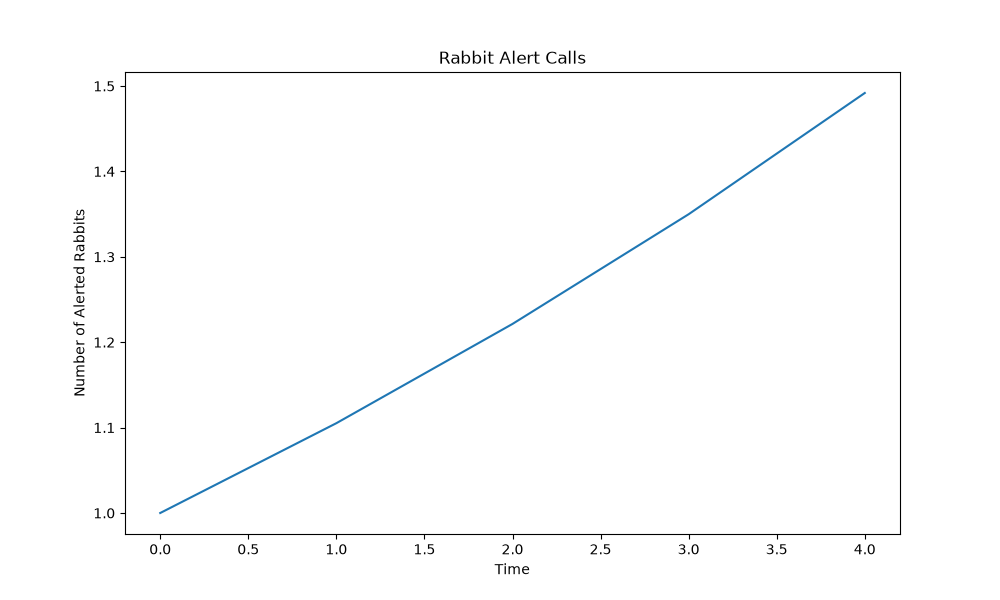
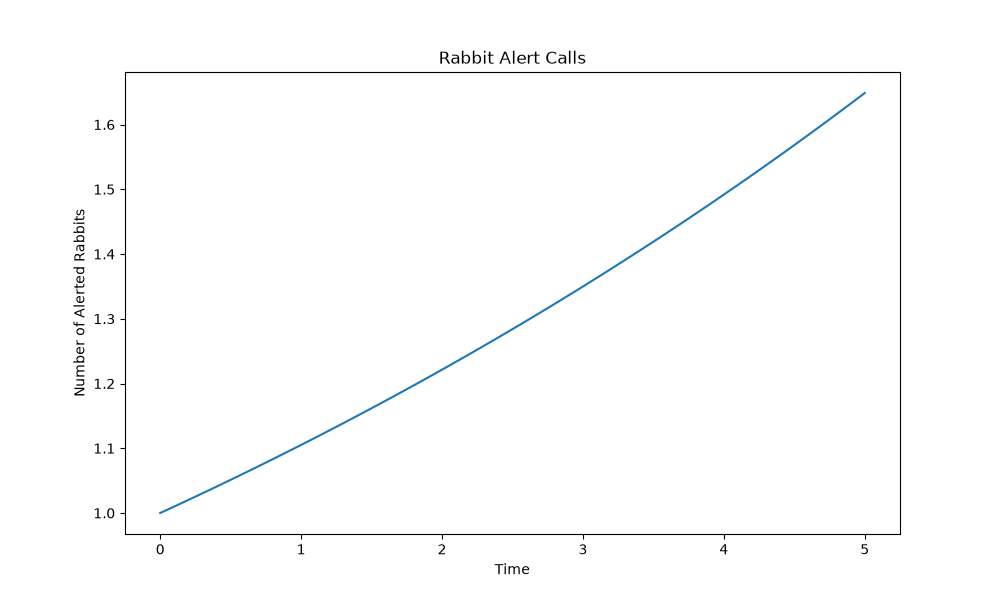
POI established

diff --git a/capped_exponential_model.py b/capped_exponential_model.py
@@ -1,4 +1,5 @@
-from sympy import Eq, Equality, diff, Function, Symbol
+import numpy as np
+from sympy import Eq, Equality, diff, Function, Symbol, lambdify, Piecewise
 from sympy.solvers import dsolve, solve
 from sympy.abc import t
 import matplotlib.pyplot as plt
@@ -66,32 +67,45 @@ def find_point_of_intersection(solution: Equality, carrying_capacity: int):
     equation = Eq(carrying_capacity, solution.rhs)
     point = solve(equation, t)
     return point[0]
-    
+
+def form_piecewise_solution(solution: Equality, carrying_capacity: int, poi: float):
+    piecewise_func = Piecewise(
+        (solution.rhs, t < poi),
+        (carrying_capacity, t >= poi)
+    )
+    return piecewise_func
+
 if __name__=="__main__":
     parser = argparse.ArgumentParser(description="Insert parameters for modeling rabbit alert calls.")
     parser.add_argument("--initial_alerted", type=int, default=1, help="Number of rabbits that detect the predator immediately")
     parser.add_argument("--spread_rate", type=float, default = 0.1, help="Fastness of how rabbits alert each other")
     parser.add_argument("--capacity", type=int, default = 15, help="Number of rabbits as part of the habitat")
+
     args = parser.parse_args()
     
     equation = form_differential_equation(args.spread_rate)
     solution = solve_equation(equation, args.initial_alerted)
-    poi = find_point_of_intersection(solution, args.capacity)
-    x, y = gather_data(solution, args.capacity)
+    
+    find_cap_point = find_point_of_intersection(solution, args.capacity)
+    piecewise_solution = form_piecewise_solution(solution, args.capacity, find_cap_point)
+    
+    time_values = np.linspace(0, 5, 100)
+    alert = lambdify(t, piecewise_solution, modules=['numpy'])
+    alert_values = alert(time_values)
     
     print(f"EQUATION: {equation}")
     print(f"SOLUTION: {solution}")
-    print(f"POINT OF INTERSECTION: {poi}")
     
     print("DATA GATHERING:")
-    print(f"X: {x}")
-    print(f"Y: {y}")
+    print(f"t: {time_values}")
+    print(f"A(t): {alert_values}")
     
     # prepare the plot
     plt.figure(figsize=(10,6))
     plt.title("Rabbit Alert Calls")
     plt.xlabel("Time")
     plt.ylabel("Number of Alerted Rabbits")
-    plt.plot(x,y)
+    plt.plot(time_values, alert_values)
+    plt.axvline(x=find_cap_point, color="red")
     
     plt.savefig(f"rabbit_alerts_naive_initial_{args.initial_alerted}_rate_{args.spread_rate}_capped.png")
